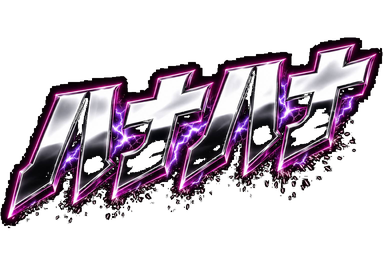
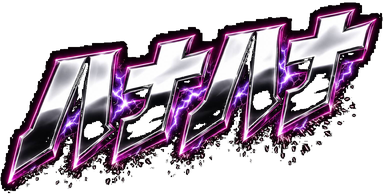
quiz: 表示・背景の修正(ロゴ余白トリム・背景全画面化・格子はみ出し修正・図柄表示範囲絞り込み・21コマ上限の扱い変更)
- title1/title2.pngの透過余白をPILでトリムし、75%/95%表示に合わせてmax-width指定を撤去
  (title2が90%指定でも約52%しか占めていなかったのは、max-width:240pxがwidth:90%より
  先に効いていたため)
- 出題画面にquizBG.pngを背景として適用
- タイトル・リザルト画面の背景をdvh基準のmin-heightでビューポート全体に広げ、
  containからcoverに変更(STARTボタンが背景外に出る問題も解消)
- リザルト画面の要素間マージンを詰めて全体を上に寄せ、TITLEボタンがURLバーに
  隠れる問題を緩和
- .choice-strip/.choice-slotにmin-width:0を追加し、symbol画像(実寸160x80px)の
  intrinsicサイズがmin-content経由で伝播して選択肢の格子がはみ出す問題を修正
- 初/易/並の選択肢表示を対象色の7を中心に上下5コマ(計11コマ)のみ図柄を描画するよう変更
  (格子線は全行のまま)
- applyShiftsWithFlipを符号反転からその場での範囲クランプに変更し、
  下端をA=0に固定しない仕様に変更(21コマ超は全9261出目×2色×全ずらしパターンで0件を確認)

Claude-Session: https://claude.ai/code/session_01LRfiuwVv1G25hZzhjaVs1B

diff --git a/quiz/quiz.css b/quiz/quiz.css
@@ -94,9 +94,11 @@ main {
   color: #ff5a5a;
 }
 
-/* タイトル画面。titleBG.pngは縦長（1024×1536）。centerのcoverだと横画面比の
-   コンテナでは左右がクロップされるため、containで画像全体を必ず見せる
-   （縦画面390×844相当を想定し、幅基準でレターボックスになる分はmin-heightで確保）。
+/* タイトル画面。titleBG.pngは縦長（1179×2556、スマホ縦画面相当）。
+   画面いっぱい（ステータスバー下〜画面下端）に敷くため、min-heightを
+   ビューポート高さ基準にしたうえでcoverではみ出し分をクロップする
+   （containだと箱の高さが画像のアスペクト比と揃わない限り上下左右に
+   地の色の余白が出てしまうため）。
    title1/title2は透過PNG。ロゴの動きは未確定のため、今回は静止で配置するのみ。 */
 
 .title-screen {
@@ -106,8 +108,10 @@ main {
   border-radius: 12px;
   overflow: hidden;
   margin-bottom: 16px;
-  min-height: 560px;
-  background: #12131a top center/contain no-repeat;
+  min-height: 560px; /* dvh未対応ブラウザ向けフォールバック */
+  min-height: calc(100vh - 24px); /* bodyのpadding(上下12px×2)ぶんを差し引く */
+  min-height: calc(100dvh - 24px);
+  background: #12131a center/cover no-repeat;
   background-image: url('images/titleBG.png');
 }
 
@@ -118,13 +122,11 @@ main {
 }
 
 .title-logo1 {
-  width: 85%;
-  max-width: 320px;
+  width: 75%;
 }
 
 .title-logo2 {
-  width: 90%;
-  max-width: 240px;
+  width: 95%;
   margin-top: 12px;
 }
 
@@ -199,6 +201,14 @@ main {
 .title-start-btn img {
   display: block;
   width: 100%;
+}
+
+/* 出題画面全体の背景（quizBG.png）。#appScreen はタイトル・リザルト以外の
+   全画面（タイマー・出題・選択肢・確認用UI等）を包む要素で、常時表示される。 */
+#appScreen {
+  background: #12131a center/cover no-repeat;
+  background-image: url('images/quizBG.png');
+  border-radius: 12px;
 }
 
 /* 出題（3x3 + 枠上枠下） */
@@ -328,18 +338,18 @@ main {
   grid-template-columns: repeat(2, 1fr);
 }
 
-/* 枠の高さは23コマ分（1コマ16px×23=368px）で固定。
-   初・易・並は下端を受付ライン（A=0）で固定し上端をmax(A)とするため、
-   ずらし選択肢でmax(A)が21を超えることがある（全9261出目×2色×ずらし
-   総当たりで実測した最大A=22、つまり0〜22の23行）。
-   中の格子は行数分しか描かないため、縦横中央に置いて余白を均等にする。 */
+/* 枠の高さは21コマ分（1コマ16px×21=336px）で固定。
+   applyShiftsWithFlip（quiz.js）が表示範囲(maxA-minA+1)を常に21コマ以内に
+   収めるため（全9261出目×2色×全ずらしパターンで実測済み、21コマ超は0件）、
+   これが表示され得る最大行数。中の格子は行数分しか描かないため、
+   縦横中央に置いて余白を均等にする。 */
 .choice-cell {
   background: #1c1d27;
   border: 2px solid #333;
   border-radius: 8px;
   padding: 6px;
   cursor: pointer;
-  height: 384px; /* 368px(格子) + padding 6px×2 + border 2px×2 */
+  height: 352px; /* 336px(格子) + padding 6px×2 + border 2px×2 */
   min-width: 0; /* グリッドアイテムの既定min-width:autoのままだと
     .choice-strip側のmin(100%,96px)が96px側で最小サイズと見なされ、
     枠(1fr)がそれ未満に縮まらずグリッドがはみ出す。0にして枠側の
@@ -368,6 +378,10 @@ main {
    帯自体の高さは行数分だけ（枠は埋めない）。 */
 .choice-strip {
   width: min(100%, 96px); /* 1コマ32px × 3列 が上限 */
+  min-width: 0; /* .choice-cell(flex)の子として既定min-width:autoのままだと、
+    孫の choice-symbol（symbol画像、実寸160×80px）のintrinsicサイズが
+    min-content契約として伝播し、widthのmin()指定を無視して96pxより
+    広がり枠からはみ出す。0にしてwidth指定どおりに縮められるようにする。 */
   display: grid;
   grid-template-columns: repeat(3, 1fr);
   gap: 0;
@@ -377,6 +391,9 @@ main {
   border: 1px solid #4a4a58;
   box-sizing: border-box;
   aspect-ratio: 2 / 1;
+  min-width: 0; /* .choice-strip(grid)の子として既定min-width:autoのままだと、
+    子のchoice-symbol画像のintrinsicサイズ(160×80px)がこのセルの
+    最小幅として伝播し、1fr列がそれ未満に縮まらずグリッドがはみ出す。 */
 }
 
 .choice-symbol {
@@ -414,15 +431,18 @@ main {
 .result-screen {
   position: relative;
   text-align: center;
-  padding: 20px 16px 24px;
+  padding: 20px 16px 20px;
   border-radius: 12px;
   overflow: hidden;
+  min-height: 560px; /* dvh未対応ブラウザ向けフォールバック */
+  min-height: calc(100vh - 24px); /* bodyのpadding(上下12px×2)ぶんを差し引く */
+  min-height: calc(100dvh - 24px);
   background: #12131a center/cover no-repeat;
   background-image: url('images/titleBG.png');
 }
 
 .result-titles {
-  margin-bottom: 14px;
+  margin-bottom: 8px;
 }
 
 .result-title1,
@@ -441,14 +461,14 @@ main {
 .result-title2 {
   width: 50%;
   max-width: 190px;
-  margin-top: 8px;
+  margin-top: 4px;
 }
 
 .result-score-wrap {
   position: relative;
   width: 88%;
   max-width: 340px;
-  margin: 10px auto 14px;
+  margin: 6px auto 10px;
 }
 
 .result-score-daiza {
@@ -473,21 +493,21 @@ main {
 .result-detail {
   font-size: 15px;
   color: #fff;
-  margin: 0 0 6px;
+  margin: 0 0 4px;
   text-shadow: 0 1px 3px rgba(0, 0, 0, 0.7);
 }
 
 .result-meta {
   font-size: 13px;
   color: #ddd;
-  margin: 0 0 18px;
+  margin: 0 0 10px;
   text-shadow: 0 1px 3px rgba(0, 0, 0, 0.7);
 }
 
 .result-buttons {
   display: flex;
   flex-direction: column;
-  gap: 10px;
+  gap: 8px;
 }
 
 .retry-btn,

diff --git a/quiz/quiz.js b/quiz/quiz.js
@@ -335,20 +335,27 @@ function rangeSize(A) {
 }
 
 // リールごとに順（左→中→右）に o_i を適用し、適用時点で表示範囲が21コマを
-// 超えるならそのリールだけ符号を反転する（2リールまとめての反転はしない）。
+// 超えるなら、そのリールだけ21コマに収まる位置まで切り上げ（または切り下げ）て
+// 縮める（符号反転はしない。2リールまとめての調整もしない）。
+// 下端をA=0で固定する必要がなくなったため、min(A)が0でない選択肢も出てよい。
 function applyShiftsWithFlip(baseA, rawOffsets) {
   const A = { ...baseA };
   const finalOffsets = { left: 0, middle: 0, right: 0 };
   for (const reel of REEL_NAMES) {
-    let amt = rawOffsets[reel] || 0;
+    const amt = rawOffsets[reel] || 0;
     if (amt === 0) continue;
     A[reel] += amt;
     if (rangeSize(A) > 21) {
-      A[reel] -= amt;
-      amt = -amt;
-      A[reel] += amt;
+      const others = REEL_NAMES.filter((r) => r !== reel).map((r) => A[r]);
+      const otherMax = Math.max(...others);
+      const otherMin = Math.min(...others);
+      if (A[reel] < otherMin) {
+        A[reel] = otherMax - 20; // 下端を切り上げて21コマに収める
+      } else if (A[reel] > otherMax) {
+        A[reel] = otherMin + 20; // 上端を切り下げて21コマに収める
+      }
     }
-    finalOffsets[reel] = amt;
+    finalOffsets[reel] = A[reel] - baseA[reel];
   }
   return { A, offsets: finalOffsets };
 }
@@ -454,22 +461,23 @@ function renderStage(container, S) {
 /* ---------- 描画：選択肢（仕様書 第4章）----------
  * 基準は受付開始ライン（X）。A_i = (P_i − X_i) mod 21 + o_i を
  * buildChoices() で choice.layout として計算済み。
+ * 表示範囲は全難易度共通でminA〜maxA（下端をA=0で固定する必要はない。
+ * applyShiftsWithFlipにより常に21コマ以内に収まる）。
  *
- * 極（hard）は従来どおり：下端＝各リールの最小A（受付ライン以降で最初の7）、
- * 7以外の図柄は描かず格子線だけを引く。
+ * 極（hard）は従来どおり：7以外の図柄は描かず格子線だけを引く。
  *
- * 初・易・並：下端を受付開始ライン（A=0）で固定し、上端は従来どおりmax(A)。
- * 表示範囲0〜max(A)の各行・各リールについて、リールiの (refX_i + 行) 番の
- * 図柄（7以外も含む実際のリール配列）を描く。ずらし選択肢はrefXがo_iぶん
- * ずれているため、ずらした位置の図柄がそのまま出る。
+ * 初・易・並：密度を抑えるため、各リールの対象色の7（A_i）を中心に
+ * 上下5コマ（計11コマ分）だけ実際の図柄を描き、それ以外の行は空セルにする。
+ * 格子線は表示範囲の全行に引く（これは変えない）。
  */
+const SYMBOL_VISIBLE_SPREAD = 5; // 対象の7から上下何コマまで図柄を描くか
 
 function renderChoiceStrip(container, choice, diffKey) {
   const layout = choice.layout;
   const sevenSymbol = choice.color === 'pink' ? 'pink7' : 'white7';
   const showFull = diffKey !== 'hard';
   const top = layout.maxA;
-  const bottom = showFull ? 0 : layout.minA;
+  const bottom = layout.minA;
   const rows = top - bottom + 1;
 
   const grid = document.createElement('div');
@@ -482,12 +490,14 @@ function renderChoiceStrip(container, choice, diffKey) {
       const slot = document.createElement('div');
       slot.className = 'choice-slot';
       if (showFull) {
-        const symbolName = symbolAt(reel, layout.refX[reel] + a);
-        const img = document.createElement('img');
-        img.className = 'choice-symbol';
-        img.src = symbolImages[symbolName].src;
-        img.alt = symbolName;
-        slot.appendChild(img);
+        if (Math.abs(a - layout.A[reel]) <= SYMBOL_VISIBLE_SPREAD) {
+          const symbolName = symbolAt(reel, layout.refX[reel] + a);
+          const img = document.createElement('img');
+          img.className = 'choice-symbol';
+          img.src = symbolImages[symbolName].src;
+          img.alt = symbolName;
+          slot.appendChild(img);
+        }
       } else if (layout.A[reel] === a) {
         const img = document.createElement('img');
         img.className = 'choice-symbol';
